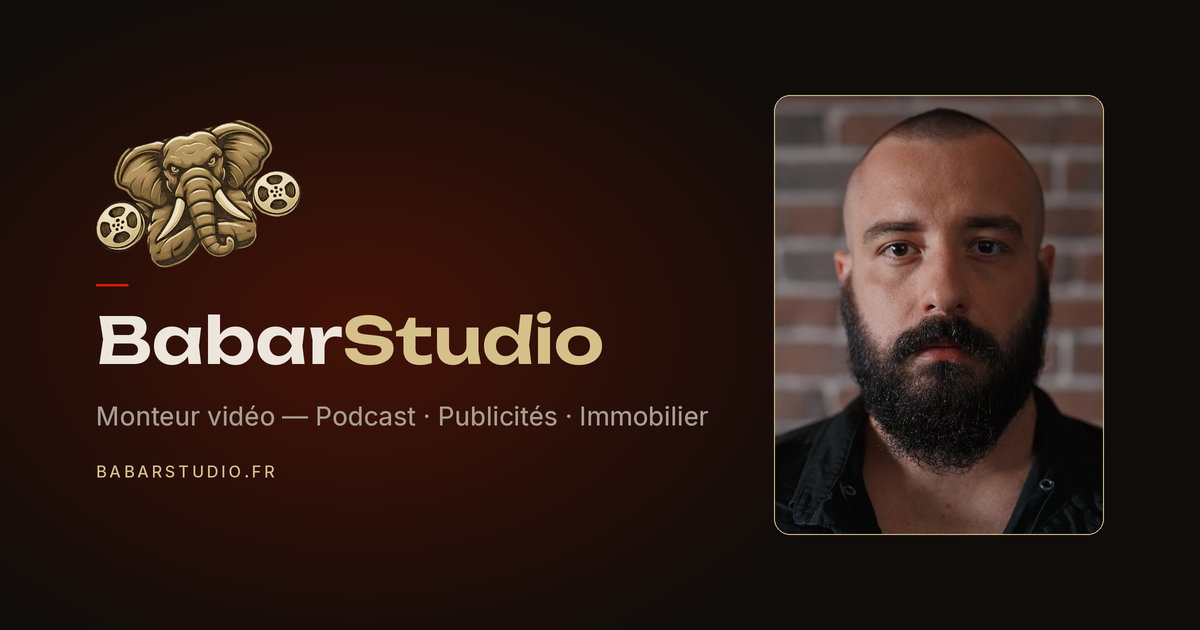
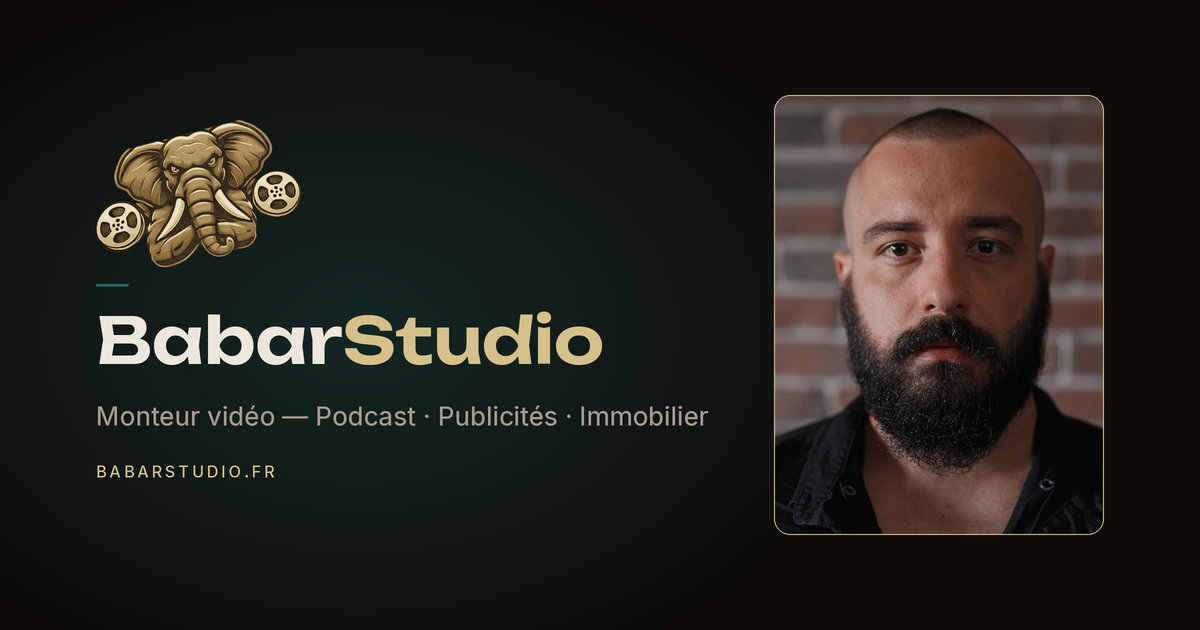
Petrol accent replaces the red
Primary button, play buttons, floating button, section ticks and hero
glow switch from red #cc2200 to petrol #1f6b66, which sits with the
ivory, ink and champagne palette; form error text keeps a true red.
Social preview image regenerated with the same accent.

Claude-Session: https://claude.ai/code/session_01R4BUVfBkh8MdH38RAmGQBg

Changed region(s): [[0.0617, 0.2111, 0.5242, 0.8444]]

diff --git a/style.css b/style.css
@@ -53,9 +53,9 @@
   --chip-bg:      transparent;              /* pastille : filet seul, comme sur fond sombre */
   --chip-line:    rgba(28, 24, 20, 0.26);   /* filet de pastille : 14 % serait trop pâle fermé */
   --chip-text:    var(--text);
-  --red:          #cc2200;  /* bouton principal, lecture et bouton flottant uniquement */
-  --red-hover:    #dc2d0c;
-  --red-text:     #b81f00;  /* petit texte rouge (erreur) : 5.6:1 sur ivoire */
+  --red:          #1f6b66;  /* accent pétrole : bouton principal, lecture et bouton flottant uniquement */
+  --red-hover:    #257f79;
+  --red-text:     #1b5f5a;  /* petit texte accent (erreur) : 6.1:1 sur ivoire */
   --radius:       12px;     /* un seul rayon pour tout le site */
   --shadow:       0 16px 40px rgba(28, 24, 20, 0.18);
   --font-display: 'Unbounded', 'Inter', sans-serif;
@@ -102,7 +102,7 @@ footer {
   --chip-bg:      transparent;
   --chip-line:    var(--line);
   --chip-text:    var(--text-2);
-  --red-text:     #ee5538;  /* 5.5:1 */
+  --red-text:     #6fd3c9;  /* 9.6:1 sur sombre */
   color: var(--text);
 }
 
@@ -158,7 +158,7 @@ img, svg { display: block; }
   letter-spacing: -0.01em;
   overflow-wrap: break-word;
 }
-/* Le seul accent rouge de chaque section : un court trait au-dessus du titre */
+/* Le seul accent pétrole de chaque section : un court trait au-dessus du titre */
 .section-title::before {
   content: '';
   display: block;
@@ -418,7 +418,7 @@ img, svg { display: block; }
 
 /* ============================================================
    HERO : bloc sombre pleine largeur, même typographie que la maquette sombre.
-   Le dégradé rouge est centré sur le nom, pas sur le bord haut, pour que la
+   Le dégradé pétrole est centré sur le nom, pas sur le bord haut, pour que la
    barre de navigation (opaque, de la même couleur) se fonde dans le bloc.
 ============================================================ */
 #hero {
@@ -433,7 +433,7 @@ img, svg { display: block; }
   text-align: center;
   padding: 8rem 0 5rem;
   background:
-    radial-gradient(55% 50% at 50% 48%, rgba(204, 34, 0, 0.14) 0%, rgba(204, 34, 0, 0) 70%),
+    radial-gradient(55% 50% at 50% 48%, rgba(31, 107, 102, 0.16) 0%, rgba(31, 107, 102, 0) 70%),
     radial-gradient(60% 50% at 100% 100%, rgba(214, 192, 138, 0.10) 0%, rgba(214, 192, 138, 0) 70%),
     var(--bg);
 }
@@ -1221,7 +1221,7 @@ img, svg { display: block; }
 .form-status:empty { padding: 0; border: 0; }
 .form-status:focus { outline: none; }
 .form-status .form-ok  { color: var(--gold); font-weight: 600; }
-.form-status .form-err { color: var(--red-text); font-weight: 600; }
+.form-status .form-err { color: #a8321f; font-weight: 600; } /* erreur : reste rouge, 5.6:1 sur ivoire */
 .form-status a {
   color: var(--gold);
   text-decoration: underline;
